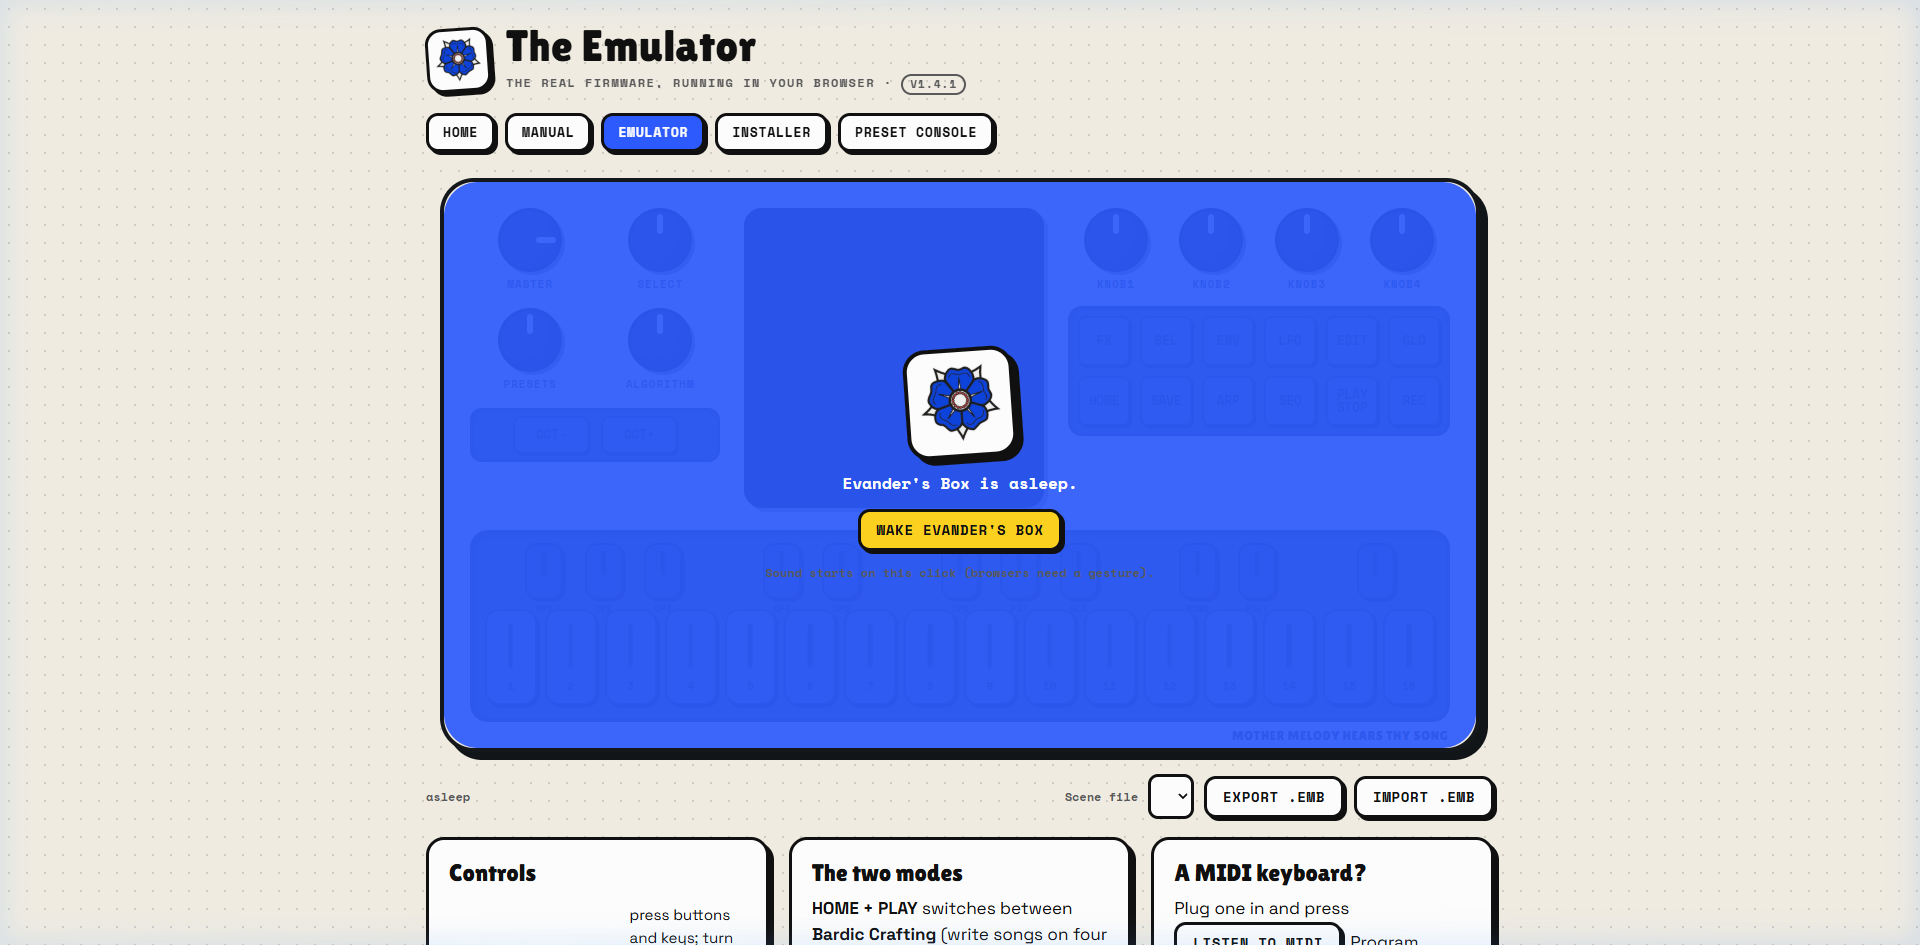
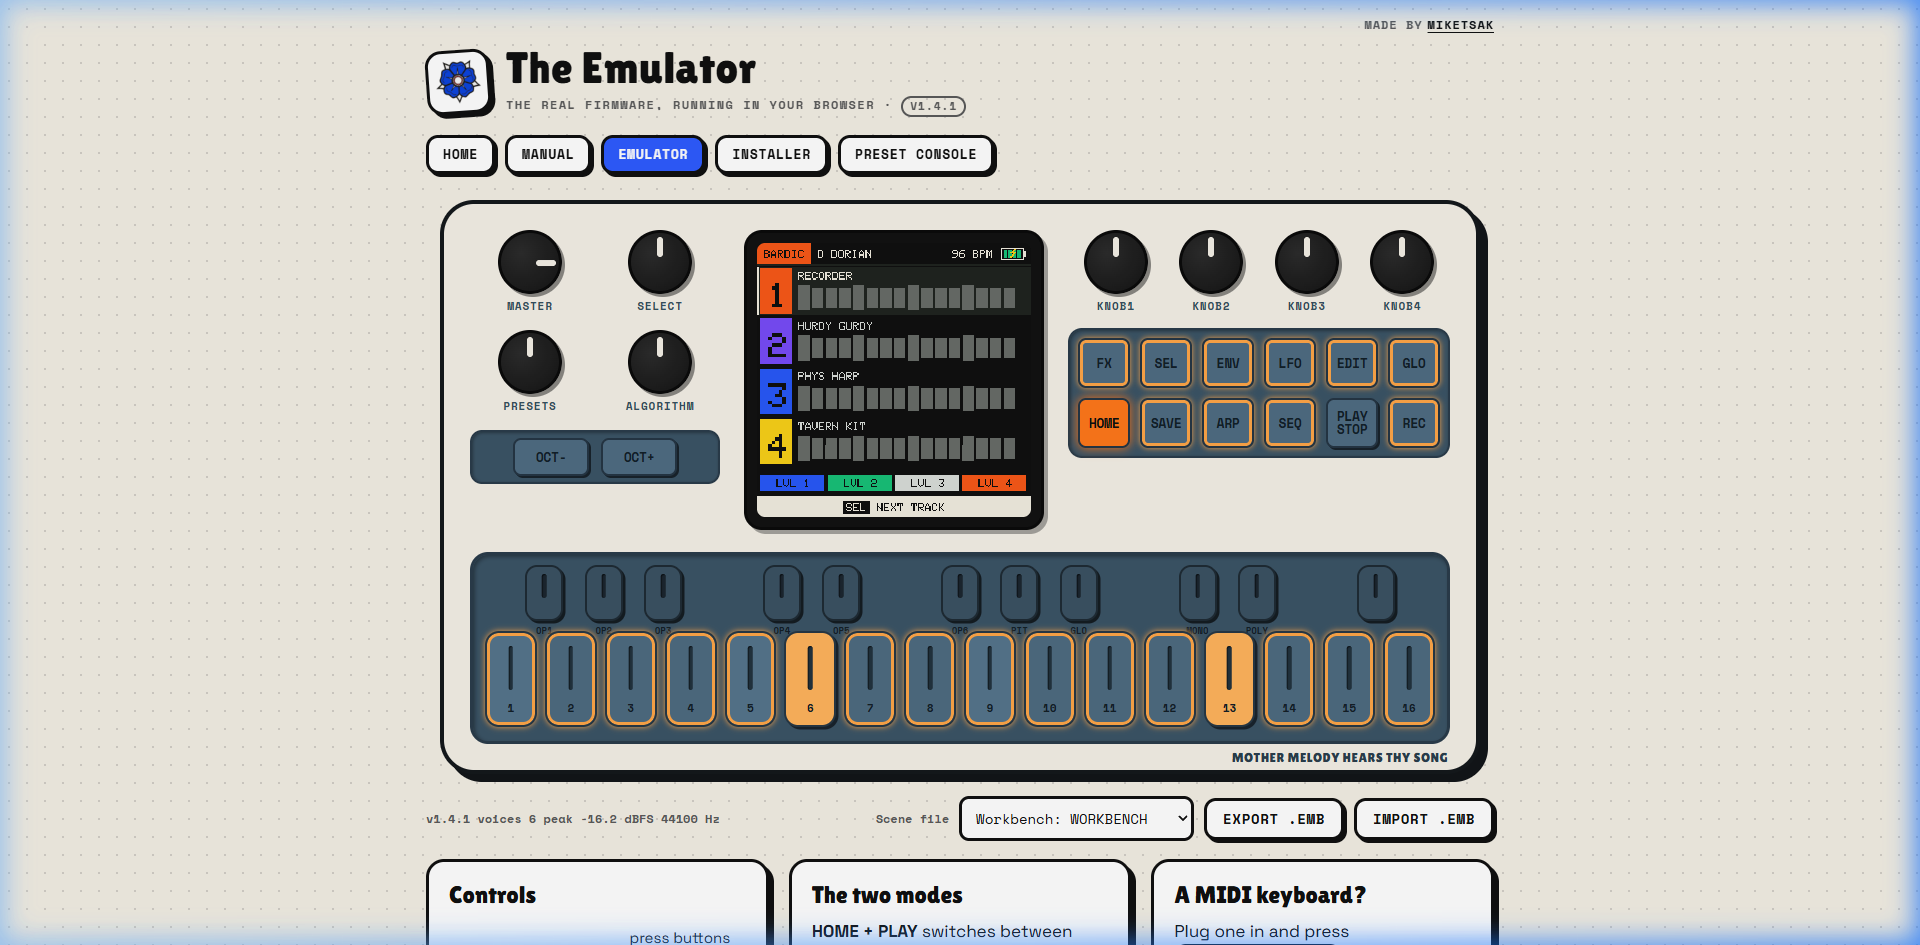
docs(readme): highlight LARP-first design, clean top hyperlinks, updated live screenshots, remove emojis

diff --git a/src/platform/host.c b/src/platform/host.c
@@ -370,7 +370,7 @@ static int shots(const char *dir)
         ui.boot_started = 1;
         ui.boot_t0 = 1;
         ui.now = 1u + BOOT_T[t];
-        emb_boot_note(t == 3u ? "LAST RESET: LOW VOLTAGE" : 0);
+        emb_boot_note(0);
         emb_draw(fb, dirty);
         ppm(dir, BOOT_N[t], fb);
     }

diff --git a/README.md b/README.md
@@ -4,15 +4,15 @@
 </p>
 
 <h1 align="center">Evander's Music Box</h1>
-<p align="center"><b>Medieval LARP Bard Firmware for the M-VAVE (Cuvave) FM-1</b><br>
-<i>"Mother Melody hears thy song"</i></p>
+<p align="center"><b>LARP-First Firmware for the M-VAVE (Cuvave) FM-1</b><br>
+<i>Medieval & High-Fantasy Bard Synthesizer · "Mother Melody hears thy song"</i></p>
 
 <p align="center">
-  <a href="https://fm1.miketsak.gr/"><img src="https://img.shields.io/badge/Live_Portal-fm1.miketsak.gr-2E5BFF?style=for-the-badge&logo=googlechrome&logoColor=white" alt="Live Site"></a>
-  <a href="https://fm1.miketsak.gr/emu/"><img src="https://img.shields.io/badge/Web_Emulator-Launch_in_Browser-FF5A1F?style=for-the-badge&logo=webassembly&logoColor=white" alt="Web Emulator"></a>
-  <a href="https://fm1.miketsak.gr/installer.html"><img src="https://img.shields.io/badge/Web_Installer-Flash_over_USB-19C37D?style=for-the-badge&logo=usb&logoColor=white" alt="Web Installer"></a>
-  <a href="https://fm1.miketsak.gr/manual.html"><img src="https://img.shields.io/badge/Field_Manual-Read_Guide-7B4DFF?style=for-the-badge&logo=gitbook&logoColor=white" alt="Field Manual"></a>
-  <a href="https://fm1.miketsak.gr/console.html"><img src="https://img.shields.io/badge/Preset_Console-Backup_%26_Cue-FFD21F?style=for-the-badge&logo=googlechrome&logoColor=101010" alt="Preset Console"></a>
+  <b><a href="https://fm1.miketsak.gr/emu/">Emulator</a></b> &nbsp;·&nbsp;
+  <b><a href="https://fm1.miketsak.gr/installer.html">Web Installer</a></b> &nbsp;·&nbsp;
+  <b><a href="https://fm1.miketsak.gr/manual.html">Manual</a></b> &nbsp;·&nbsp;
+  <b><a href="https://fm1.miketsak.gr/console.html">Console</a></b> &nbsp;·&nbsp;
+  <b><a href="https://fm1.miketsak.gr/">Page</a></b>
 </p>
 
 <p align="center">
@@ -24,25 +24,11 @@
 
 ---
 
-## 🌐 Web Suite & Online Tools
-
-Run, configure, and install Evander's Box straight from your browser without installing native toolchains:
-
-| Tool | Description | Direct Link |
-| :--- | :--- | :--- |
-| 🎮 **The Web Emulator** | The real C firmware running in your browser via WebAssembly & AudioWorklet. Supports multi-button chords (<kbd>Ctrl</kbd> + Mouse 1) and MIDI keyboards. | [**Launch Emulator →**](https://fm1.miketsak.gr/emu/) |
-| ⚡ **The Web Installer** | Flash `.fwsc` firmware packages directly over USB in Chrome or Edge using WebMIDI SysEx. Supports resume on drop and one-click return to stock V15. | [**Open Installer →**](https://fm1.miketsak.gr/installer.html) |
-| 📜 **The Field Manual** | Comprehensive handbook covering controls, both operational modes, all 16 battle scenes, and physical modeling details. | [**Read Manual →**](https://fm1.miketsak.gr/manual.html) |
-| 🎛 **The Preset Console** | Back up and restore scenes/workbench (`.embk` / `.emb`) and cue scenes live over USB as a game master's remote. | [**Open Console →**](https://fm1.miketsak.gr/console.html) |
-| 🏰 **Project Portal** | The official live portal with release information, lore, and hardware guides. | [**Visit fm1.miketsak.gr →**](https://fm1.miketsak.gr/) |
-
----
-
-## 📸 Screenshots
+## Screenshots
 
 <p align="center">
   <img src="assets/screenshots/web_emulator.png" width="850" alt="Evander's Box Web Emulator Interface"><br>
-  <i>The Web Emulator running the real C firmware in-browser with interactive hardware controls and multi-button latching.</i>
+  <i>The Web Emulator running the real C firmware in-browser with live hardware controls, active LED feedback, and multi-button latching.</i>
 </p>
 
 <p align="center">
@@ -52,7 +38,7 @@ Run, configure, and install Evander's Box straight from your browser without ins
   &nbsp;&nbsp;
   <img src="assets/screenshots/encounter.png" width="220" alt="Encounter Mode Live Battle Scoring">
   &nbsp;&nbsp;
-  <img src="assets/screenshots/bardic_steps.png" width="220" alt="64-Step Sequencer & Parameter Locks">
+  <img src="assets/screenshots/bardic_steps.png" width="220" alt="64-Step Sequencer and Parameter Locks">
 </p>
 <p align="center">
   <i>Left to right: Mother Melody sacred boot splash; 4-track Bardic Crafting deck; Encounter 16-scene matrix; 64-step sequencer.</i>
@@ -60,11 +46,15 @@ Run, configure, and install Evander's Box straight from your browser without ins
 
 ---
 
-## Overview
+## Overview: LARP-First Firmware
 
-Custom firmware for the **M-VAVE (Cuvave) FM-1** pocket synth that turns it into the relic of Evander, an
-Elven Bard chosen by Mother Melody, patron of harmony, rhythm and song. In short: **Evander's Box**. It has two
-modes:
+**Evander's Music Box** is custom, open-source firmware designed from the ground up for **medieval and high-fantasy Live Action Roleplay (LARP)** on the pocket-sized **M-VAVE (Cuvave) FM-1** synthesizer.
+
+Most synthesizers belong on a studio desk or a stage stand. Evander's Box was forged for the mud, costumes, leather armor, and campfires of live roleplay. It turns your FM-1 into the sacred relic of Evander, Elven Bard of Mother Melody. By day it scores live skirmishes and boss battles strapped directly to your forearm or bracers; by night around the tavern fire it is a four-track acoustic composition workshop.
+
+There are **zero modern synth bleeps or electronic sweeps**. Every voice is an authentic acoustic physical model tuned for historical and fantasy settings: hurdy-gurdy with buzzing trompette, physical harps, lutes, psaltery, shawms, bagpipes, cathedral choirs, and bodhrán war drums.
+
+It features two distinct operational modes:
 
 - **Bardic Crafting.** A four-track medieval workshop: war drums, drones, plucked strings and winds. It has a
   64-step sequencer with microtiming and parameter locks, live looping, modal scales and historical
